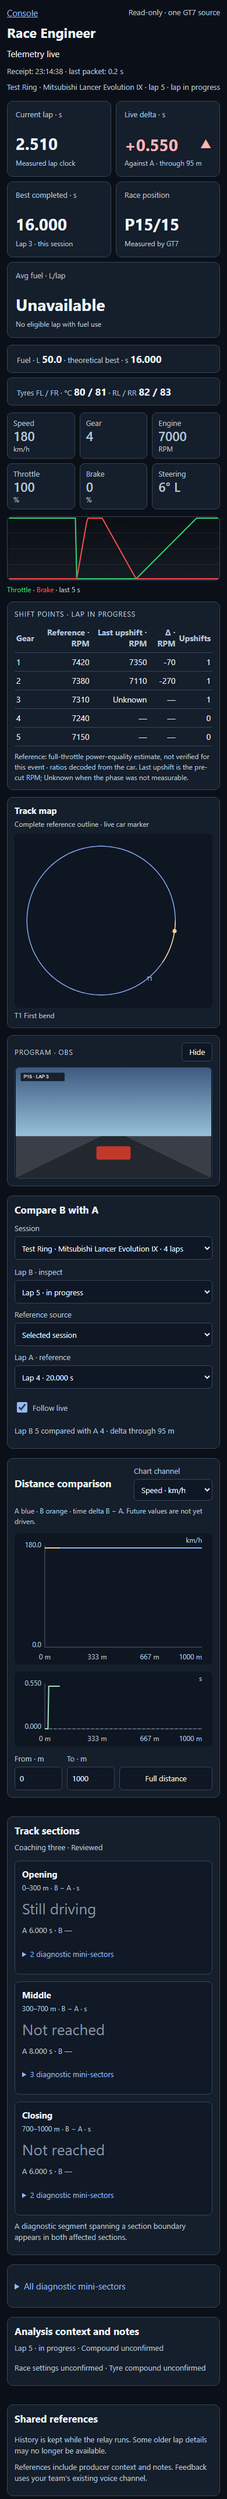
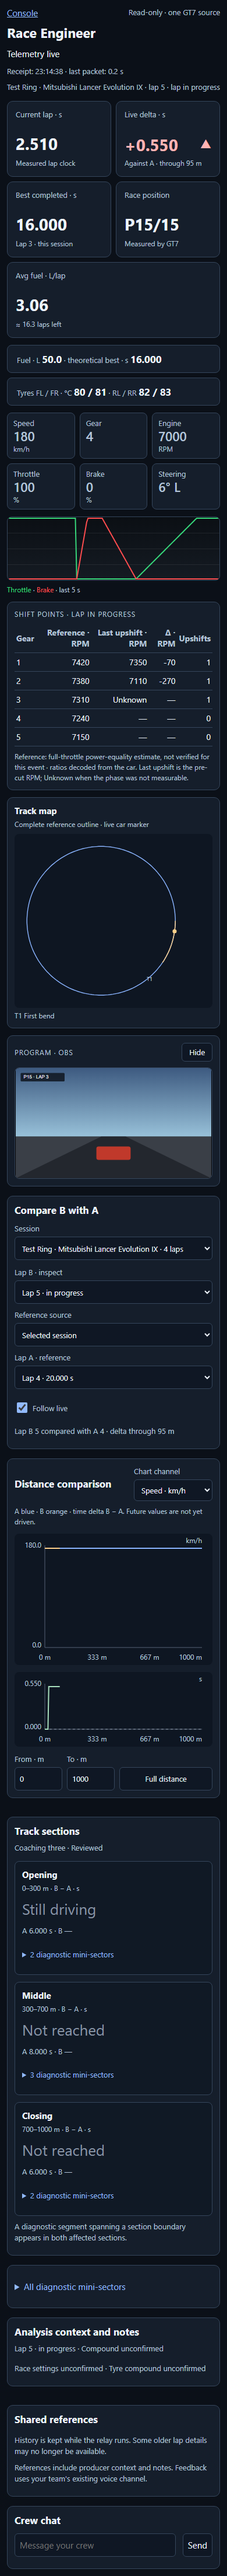
feat(console): estimate the laps left on the Engineer fuel tile
The average fuel tile's note named how many eligible laps fed the
average. More useful on the pit wall is how far the current fuel goes:
the note now reads "≈ N laps left" (current fuel / session average),
"Fuel level unavailable" without a fuel reading, and keeps "No eligible
lap with fuel use" before the first counted lap. Wiki text and the three
desk screenshots are refreshed.

diff --git a/src/console/race-engineer.html b/src/console/race-engineer.html
@@ -115,7 +115,8 @@ function renderShifts(snap){const s=snap.shifts,body=$('shift-table').tBodies[0]
  $('shift-note').textContent=ref.kind==='unavailable'||!targets.size?'No local shift reference for this car. Fetch it in Telemetry → Data management → Shift references by car.':`Reference: full-throttle power-equality estimate, not verified for this event · ratios ${ref.ratio_source==='decoded transmission'?'decoded from the car':'from the stock source'}. Last upshift is the pre-cut RPM; Unknown when the phase was not measurable.`;
 }
 function instruments(snap){const v=snap.instruments||{};$('race-position').textContent=v.race_position!=null&&v.car_count!=null?`P${v.race_position}/${v.car_count}`:'Unavailable';for(const [id,value,d] of [['speed',v.speed_kmh,0],['gear',v.gear,0],['rpm',v.rpm,0],['throttle',v.throttle,0],['brake',v.brake,0],['fuel',v.fuel_l,1],['lap-time',snap.current?.elapsed_s,3],['best',snap.best_s,3],['theory',snap.theoretical_s,3]])$(id).textContent=num(value,d);
- $('fuel-avg').textContent=num(snap.fuel_avg_l,2);$('fuel-avg-note').textContent=snap.fuel_avg_laps?`${snap.fuel_avg_laps} eligible lap${snap.fuel_avg_laps===1?'':'s'} · this session`:'No eligible lap with fuel use';
+ const avg=snap.fuel_avg_l,fuel=v.fuel_l,left=Number.isFinite(avg)&&avg>0&&Number.isFinite(fuel)?Math.max(0,fuel)/avg:null;
+ $('fuel-avg').textContent=num(avg,2);$('fuel-avg-note').textContent=!snap.fuel_avg_laps?'No eligible lap with fuel use':left==null?'Fuel level unavailable':`≈ ${num(left,1)} laps left`;
  for(const id of ['lap-time','best','theory'])$(id).classList.remove('not-driven');if(snap.current?.lap<=0){$('lap-time').textContent='Out lap';$('lap-time').classList.add('not-driven');}if(snap.current&&!state.laps.some(r=>r.session_id===snap.current.session_id&&r.comparison_eligible)){for(const [id,value]of [['best',snap.best_s],['theory',snap.theoretical_s]])if(value==null){$(id).textContent='No eligible lap';$(id).classList.add('not-driven');}}
  const bestLap=snap.best_s==null?null:state.laps.find(r=>r.session_id===snap.session_id&&r.comparison_eligible&&r.state==='confirmed'&&r.time_s===snap.best_s);$('best-note').textContent=bestLap?`Lap ${bestLap.lap} · this session`:'Eligible completed laps';
  const steer=Number.isFinite(v.steer_rad)?v.steer_rad*180/Math.PI:null;$('steer').textContent=steer==null?'Unavailable':Math.abs(steer)<.5?'0°':`${Math.abs(steer).toFixed(0)}° ${steer>0?'L':'R'}`;

diff --git a/tests/test_engineer_live_trend.py b/tests/test_engineer_live_trend.py
@@ -114,17 +114,18 @@ console.log(seen.join('|'));""")
         assert out.strip() == "11° L|11° R|0°|Unavailable", out
 
 
-def t_average_fuel_shows_the_session_value_and_its_lap_count():
+def t_average_fuel_estimates_the_laps_left_on_the_current_fuel():
     h = _html()
     assert 'id="fuel-avg"' in h and h.index('id="instruments"') < h.index('id="fuel-avg"') < h.index('id="input-trace"')
     out = _run_js(_HARNESS + _func_src(h, "instruments") + """
 const seen = [];
-for (const [avg, laps] of [[3.0612, 12], [null, 0]]) {
-  instruments({instruments: {}, fuel_avg_l: avg, fuel_avg_laps: laps});
+for (const [avg, laps, fuel] of [[3.0612, 12, 85.7], [3.0612, 12, null], [null, 0, 40], [2.5, 3, 0]]) {
+  instruments({instruments: {fuel_l: fuel}, fuel_avg_l: avg, fuel_avg_laps: laps});
   seen.push($('fuel-avg').textContent + '/' + $('fuel-avg-note').textContent); }
 console.log(seen.join('|'));""")
     if out is not None:
-        assert out.strip() == "3.06/12 eligible laps · this session|Unavailable/No eligible lap with fuel use", out
+        assert out.strip() == ("3.06/≈ 28.0 laps left|3.06/Fuel level unavailable|"
+                               "Unavailable/No eligible lap with fuel use|2.50/≈ 0.0 laps left"), out
 
 
 def t_shift_points_compare_the_lap_in_progress_with_the_vehicle_reference():

diff --git a/tools/e2e-engineer-desk.py b/tools/e2e-engineer-desk.py
@@ -197,9 +197,12 @@ async def main():
                     async def shift_points(route):
                         response = await route.fetch(); data = await response.json()
                         data['shifts'] = SHIFTS
+                        # No completed lap with fuel use either: a session average for the tile.
+                        data['fuel_avg_l'], data['fuel_avg_laps'] = 3.06, 4
                         await route.fulfill(json=data)
                     await page.route('**/race-engineer/snapshot', shift_points)
                     await page.wait_for_function('() => document.querySelectorAll("#shift-table tbody tr").length === 5')
+                    await page.wait_for_function('() => /laps left|Fuel level unavailable/.test(document.getElementById("fuel-avg-note").textContent)')
                     for width,height,name in [(1440,1050,'desktop'),(1024,1100,'tablet'),(390,900,'phone')]:
                         await page.set_viewport_size({'width':width,'height':height})
                         await page.screenshot(path=str(ROOT/f'src/docs/wiki/images/console-race-engineer-{name}.png'),full_page=True)

diff --git a/src/docs/wiki/Race-Engineer.md b/src/docs/wiki/Race-Engineer.md
@@ -23,8 +23,9 @@ workflow. Without recording, those laps are lost. The desk states this limitatio
 
 Current lap, live delta, best completed time, race position and average fuel use lead
 the desk. **Avg fuel · L/lap** averages the completed, comparison-eligible laps of the
-live session (out, pit and partial laps excluded) and names how many laps it uses; a lap
-without a fuel reading is left out, never counted as zero. Fuel, theoretical best and
+live session (out, pit and partial laps excluded); a lap without a fuel reading is left
+out, never counted as zero. Below it, the tile estimates the laps left: the current fuel
+level divided by that average. Fuel, theoretical best and
 tyres follow, then large speed/gear/RPM/throttle/brake/steering values.
 Select the comparison before inspecting the charts; channel and distance controls
 are attached to the chart. One line below the selection reports the comparison:
